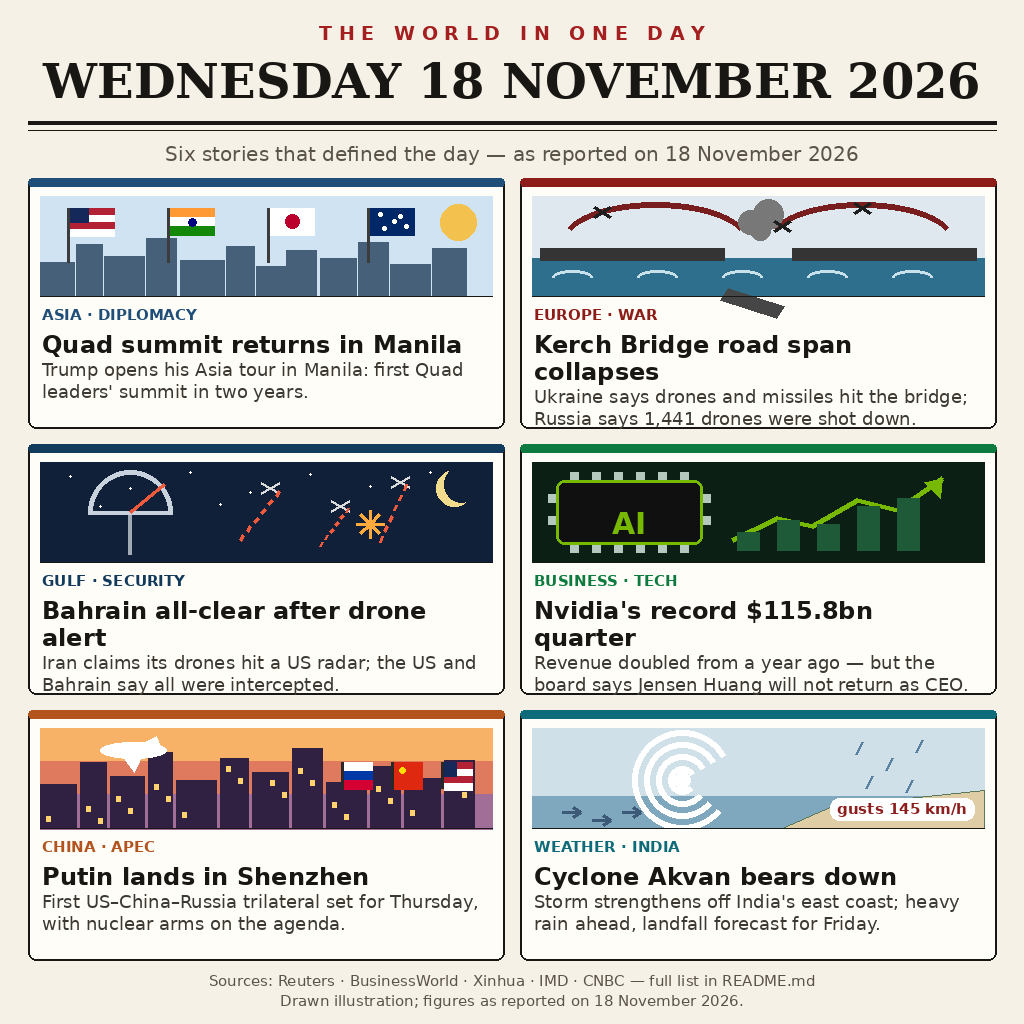
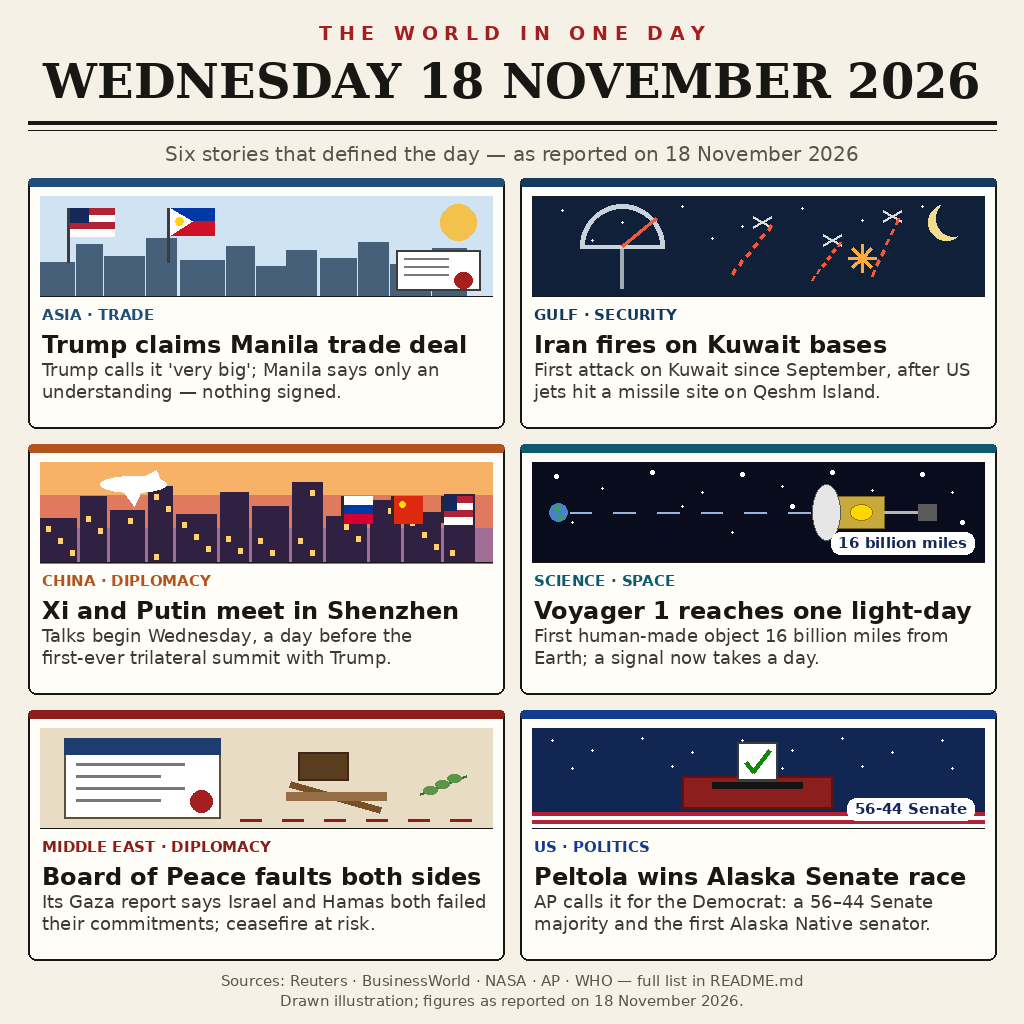
Refresh: full 18 Nov 2026 news

diff --git a/README.md b/README.md
@@ -12,58 +12,69 @@ headline plus one line of what happened — all of them first reported on
 
 ## The six stories
 
-1. **Quad summit returns in Manila** (Asia · Diplomacy) — Trump opens his Asia
-   tour in Manila: the first Quad leaders' summit in two years.
-2. **Kerch Bridge road span collapses** (Europe · War) — Ukraine says drones
-   and missiles hit the bridge; Russia says 1,441 drones were shot down.
-3. **Bahrain all-clear after drone alert** (Gulf · Security) — Iran claims its
-   drones hit a US radar; the US and Bahrain say all were intercepted.
-4. **Nvidia's record $115.8bn quarter** (Business · Tech) — Revenue doubled
-   from a year ago, but the board says Jensen Huang will not return as CEO.
-5. **Putin lands in Shenzhen** (China · APEC) — First US–China–Russia
-   trilateral set for Thursday, with nuclear arms on the agenda.
-6. **Cyclone Akvan bears down** (Weather · India) — Storm strengthens off
-   India's east coast; heavy rain ahead, landfall forecast for Friday.
+1. **Trump claims Manila trade deal** (Asia · Trade) — Trump calls it
+   "very big" at a state lunch in Manila; Manila says only an understanding
+   on economic cooperation, and nothing was signed.
+2. **Iran fires on Kuwait bases** (Gulf · Security) — First Iranian attack
+   on Kuwait since September, after US jets hit a missile site on Qeshm
+   Island; Bahrain says it intercepted Iranian attacks a third time in a week.
+3. **Xi and Putin meet in Shenzhen** (China · Diplomacy) — Talks begin
+   Wednesday in Shenzhen, a day before the first-ever trilateral summit
+   with Trump.
+4. **Voyager 1 reaches one light-day** (Science · Space) — First
+   human-made object 16 billion miles from Earth, crossed at 5:16 a.m. ET;
+   a radio signal now takes a full day to reach it.
+5. **Board of Peace faults both sides** (Middle East · Diplomacy) — Its
+   Gaza report to the UN Security Council says Israel and Hamas both failed
+   their commitments; the ceasefire is at risk of collapse.
+6. **Peltola wins Alaska Senate race** (US · Politics) — AP calls the last
+   Senate race of the midterms for the Democrat: a 56–44 majority, and the
+   first Alaska Native senator.
 
-Contested claims are shown as claims (Bahrain), forecasts as forecasts
-(Akvan's landfall), and figures as reported. Two 17 November stories that
-dominated the morning roundups were deliberately left out: MS Dhoni's IPL
-retirement was announced on 17 November, and Britain's sanctions on Israeli
-settlement firms were announced on 17 November.
+Contested claims are shown as claims (the Manila trade deal, the Gulf
+strikes), and figures as reported. Six stories that dominated the morning
+roundups were deliberately left out because they were first reported before
+18 November: the Quad leaders' meeting in Manila (Tuesday 17 November), the
+Kerch Bridge road-span collapse (17 November), the Bahrain drone alert
+(17 November), Nvidia's record $115.8bn quarter (17 November), the US loss
+of measles-elimination status (announced 17 November), and Cyclone Akvan
+(named 16 November).
 
 ## Sources
 
-- Trump in Manila / Quad: BusinessWorld,
-  <https://bworldonline.com/world/2026/11/18/794662/trump-meets-key-us-regional-allies-in-manila-ahead-of-china-visit/>;
-  Metropolitan,
-  <https://metropolitan.ph/quad-leaders-tackle-indo-pacific-security-in-1st-leader-level-talks-in-philippines/>;
-  AJU Press, <https://www.ajupress.com/view/20261118085151016>
-- Kerch Bridge: Reuters,
-  <https://www.reuters.com/world/europe/ukraine-strikes-crimean-bridge-second-day-russia-pounds-kyiv-bridges-2026-11-17/>;
-  EuropeSays, <https://www.europesays.com/ukraine/73069/>;
-  Devdiscourse,
-  <https://www.devdiscourse.com/article/international/4008665-wrapup-4-ukraine-cripples-crimean-road-bridge-in-blow-to-putin-before-meeting-with-xi-and-trump>
-- Bahrain drones: Particle,
-  <https://particle.news/story/us-says-drones-intercepted-after-iran-claims-strike-on-bahrain-radar>;
-  Al Jazeera,
-  <https://aljazeeranews-3fuh52rgrl.edgeone.app/news/2026/11/17/bahrain-thwarts-drone-attack-iran-claims-targeting-us-military-radar>;
-  The Red Wing,
-  <https://www.theredwing.news/2026/11/17/iran-drones-bahrain-intercepted-november-17-2026/>
-- Nvidia: KuCoin,
-  <https://www.kucoin.com/news/flash/nvidia-posts-record-116b-quarter-rejects-huang-s-comeback>;
-  ByteEU, <https://www.byteseu.com/2529227/>;
-  SuaraGarut, <https://suaragarut.id/en/nvidia-q3-earnings-revenue-outlook>
-- Putin in Shenzhen: The Chronicle,
-  <https://thechronicle.com.ph/putin-arrives-in-china-for-first-trilateral-talks-with-trump-xi/>;
-  The Informant, <https://theinformant.com/?p=108709>;
-  Le Monde,
-  <https://www.lemonde.fr/en/international/article/2026/11/18/with-trump-and-putin-at-his-side-xi-puts-himself-front-and-center-on-world-stage_6782965_4.html>
-- Cyclone Akvan: India Meteorological Department advisory,
-  <https://mausam.imd.gov.in/backend/assets/cyclone_pdf/Tropical_cylone_advisory_no__4_based_on_2100_UTC_of_16_11_2026.pdf>;
-  TechWordNews,
-  <https://techwordnews.com/cyclone-akvan-is-moving-slowly-and-is-likely-to-strengthen-further-by-the-morning-of-november-18/>;
+- Trump in Manila / trade deal: BusinessWorld,
+  <https://bworldonline.com/the-nation/2026/11/18/794700/trump-says-us-has-concluded-very-big-trade-deal-with-philippines/>;
+  Reuters (via WIXX),
+  <https://wixx.com/2026/11/17/trump-says-us-has-concluded-very-big-trade-deal-with-philippines/>;
   The Library Estate,
-  <https://thelibraryestate.com/cyclone-akvan-strengthens-over-bay-of-bengal-as-india-prepares-for-forecast-landfall/>
+  <https://thelibraryestate.com/trump-announces-very-big-philippines-trade-deal-but-manila-gives-no-confirmation/>
+- Gulf / Kuwait and Qeshm: Reuters,
+  <https://www.reuters.com/world/middle-east/gulf-conflict-end-date-depends-who-you-ask-2026-11-18/>;
+  Level Headlines, <https://levelheadlines.com/briefs/2026-11-18/>;
+  One Turn, <https://oneturn.news/news/>
+- Xi and Putin in Shenzhen: Open Chronicle,
+  <https://openchronicle.org/2026/11/18/global-news-brief-key-developments-around-the-world-november-18-2026/>;
+  Le Monde,
+  <https://www.lemonde.fr/en/international/article/2026/11/18/with-trump-and-putin-at-his-side-xi-puts-himself-front-and-center-on-world-stage_6782965_4.html>;
+  Level Headlines, <https://levelheadlines.com/briefs/2026-11-18/>
+- Voyager 1 one light-day: Smithsonian,
+  <https://www.smithsonianmag.com/blogs/air-space-museum/2026/11/18/nasas-voyager-1-has-reached-1-lightday-from-earth-it-is-the-first-humanmade-object-in-space-to-reach-that-distance/?itm_source=related-content&itm_medium=parsely-api>;
+  USA Today,
+  <https://www.usatoday.com/story/tech/space/2026/11/18/nasa-voyager-1-light-day/92809727007/>;
+  Aerospace Global News,
+  <https://aerospaceglobalnews.com/news/voyager-1-one-light-day-from-earth/>
+- Board of Peace / Gaza: Reuters (via WIXX),
+  <https://wixx.com/2026/11/18/trumps-board-of-peace-faults-israel-and-hamas-for-failure-to-end-gaza-war/>;
+  Reuters (via Froggy),
+  <https://froggyweb.com/2026/11/18/trumps-board-of-peace-faults-israel-and-hamas-for-failure-to-end-gaza-war/>
+- Peltola wins Alaska: KHSU,
+  <https://www.khsu.org/2026-11-18/mary-peltola-flips-alaskas-senate-seat-blue>;
+  Associated Press (via Henderson Star),
+  <https://hendersonstar.com/stories/democrat-mary-peltola-wins-us-senate-race-in-alaska-beating-incumbent-republican-dan-sullivan,2263607>;
+  TML, <https://tml.news/stories/peltola-beats-sullivan-alaska-senate-call/>
+
+The Peltola call came at about 10:27 p.m. Eastern on Tuesday 17 November,
+03:27 UTC on Wednesday 18 November — first reported on 18 November UTC.
 
 ## How to run
 
@@ -76,4 +87,4 @@ the entry, and `main.ts` only copies it, so both runs are byte-identical):
 mkdir -p out && MAKEFUN_OUTPUT_DIR=out node main.ts
 ```
 
-`out/entry.png` is a 1024×1024 PNG, 109,597 bytes — inside the 1 MiB gate.
+`out/entry.png` is a 1024×1024 PNG, 102,507 bytes — inside the 1 MiB gate.
